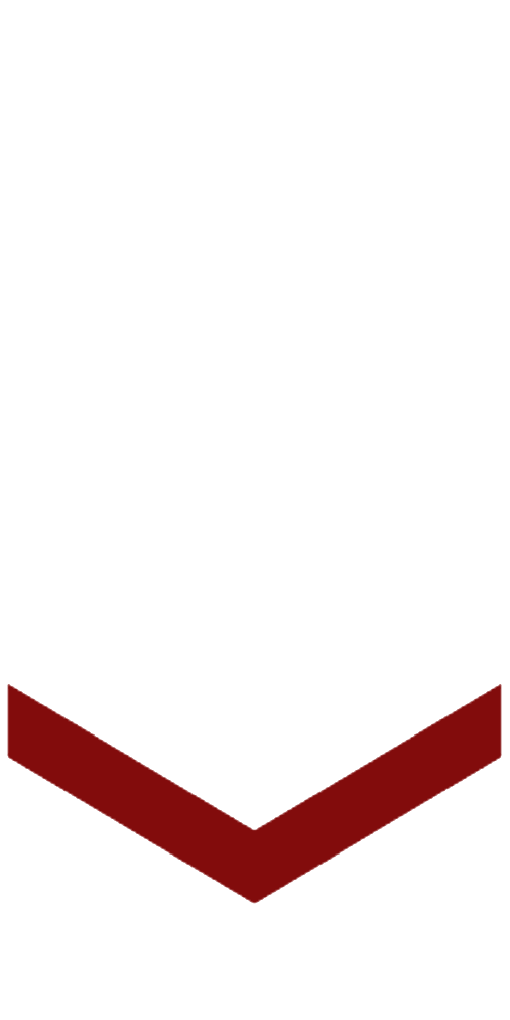
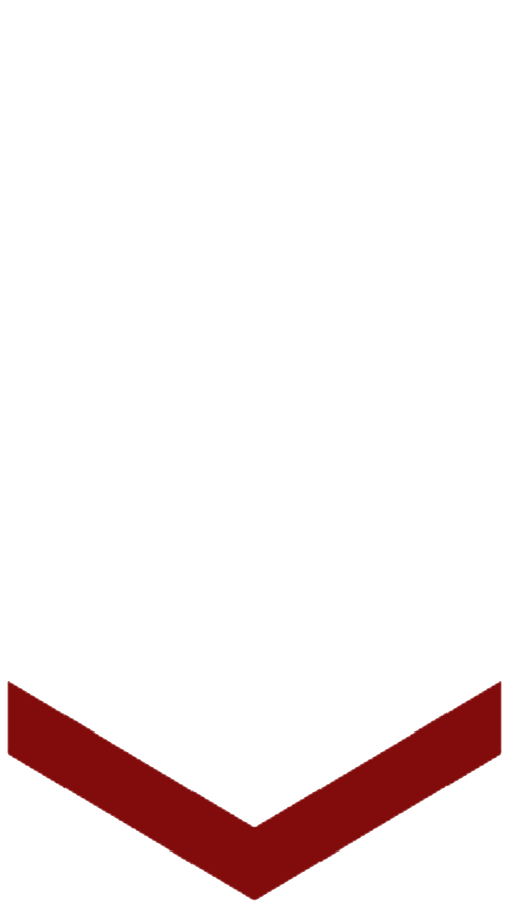
Make patches auto-cropping

Changed region(s): [[0.0, 0.6754, 1.0, 1.0]]

diff --git a/docs/uniforms/patches/patchbuilder.py b/docs/uniforms/patches/patchbuilder.py
@@ -57,6 +57,9 @@ if __name__ == "__main__":
     for patchCollection in data.keys():
         liveryData = data[patchCollection]
 
+        # Where the next patch should be drawn
+        cursor = 0
+
         # The actual livery image!
         liveryImage = Image.new("RGBA", (510, 1020), color=(0, 0, 0, 0))
 
@@ -69,12 +72,14 @@ if __name__ == "__main__":
                 getPatch("masks/Chevron Mask.png", getColor(liveryData["chevrons"][0]))
             )
 
+            cursor = 112
+
         if len(liveryData["patches"]) == 0:
             # No subteam patches
             logging.info("No patches to apply")
         if len(liveryData["patches"]) == 1:
             # One subteam patch
-            offset = (int(255 / 2), int(255 / 2))
+            offset = (int(255 / 2), cursor)
 
             patchname = liveryData["patches"][0][0]
 
@@ -84,9 +89,11 @@ if __name__ == "__main__":
                 ),
                 offset,
             )
+
+            cursor = cursor + 150
         if len(liveryData["patches"]) == 2:
             # Two subteam patches
-            offset = (0, 200)
+            offset = (0, cursor + 90)
 
             patchname = liveryData["patches"][0][0]
 
@@ -98,7 +105,7 @@ if __name__ == "__main__":
             )
 
             # New offset, new patch
-            offset = (255, 200)
+            offset = (255, cursor + 90)
 
             patchname = liveryData["patches"][1][0]
 
@@ -109,14 +116,13 @@ if __name__ == "__main__":
                 offset,
             )
 
+            cursor = cursor + 320
+
         # Bottom 3 chevrons
         if liveryData["chevrons"][1] != "none":
             logging.info(f"Found first chevron on {patchCollection}")
 
-            if len(liveryData["patches"]) < 2:
-                offset = (0, 290)
-            else:
-                offset = (0, 435)
+            offset = (0, cursor)
 
             liveryImage.alpha_composite(
                 getPatch(
@@ -125,13 +131,12 @@ if __name__ == "__main__":
                 offset,
             )
 
+            cursor = cursor + 120
+
         if liveryData["chevrons"][2] != "none":
             logging.info(f"Found second chevron on {patchCollection}")
 
-            if len(liveryData["patches"]) < 2:
-                offset = (0, 290 + 120)
-            else:
-                offset = (0, 435 + 120)
+            offset = (0, cursor)
 
             liveryImage.alpha_composite(
                 getPatch(
@@ -140,13 +145,12 @@ if __name__ == "__main__":
                 offset,
             )
 
+            cursor = cursor + 120
+
         if liveryData["chevrons"][3] != "none":
             logging.info(f"Found third chevron on {patchCollection}")
 
-            if len(liveryData["patches"]) < 2:
-                offset = (0, 290 + 240)
-            else:
-                offset = (0, 435 + 240)
+            offset = (0, cursor)
 
             liveryImage.alpha_composite(
                 getPatch(
@@ -154,5 +158,9 @@ if __name__ == "__main__":
                 ),
                 offset,
             )
+
+            cursor = cursor + 120
+
+        liveryImage = liveryImage.crop((0, 0, 510, cursor + 120))
 
         liveryImage.save(f"renders/{patchCollection}.png")
